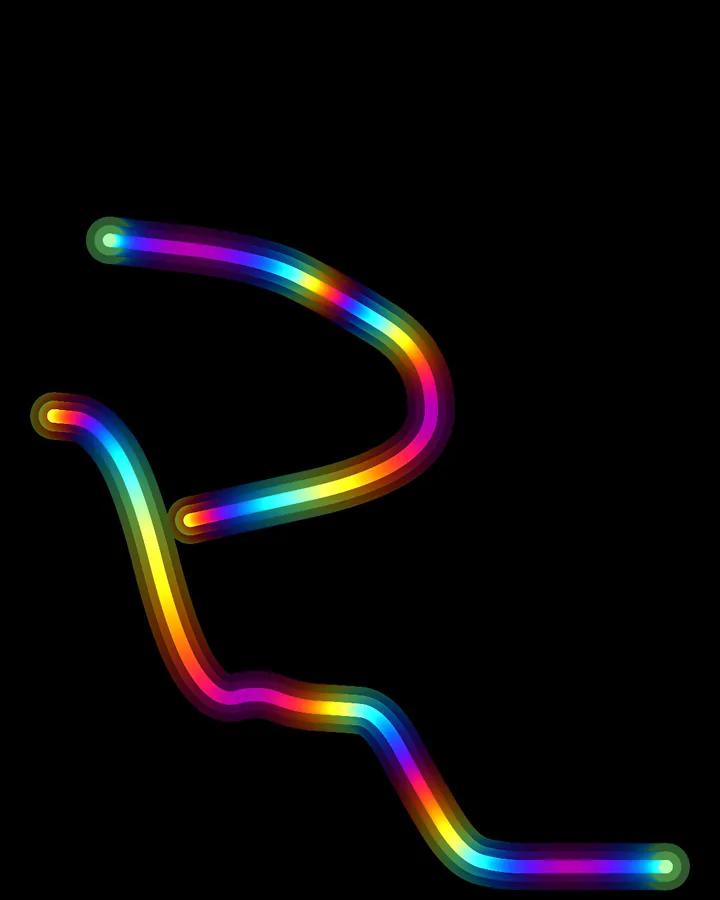
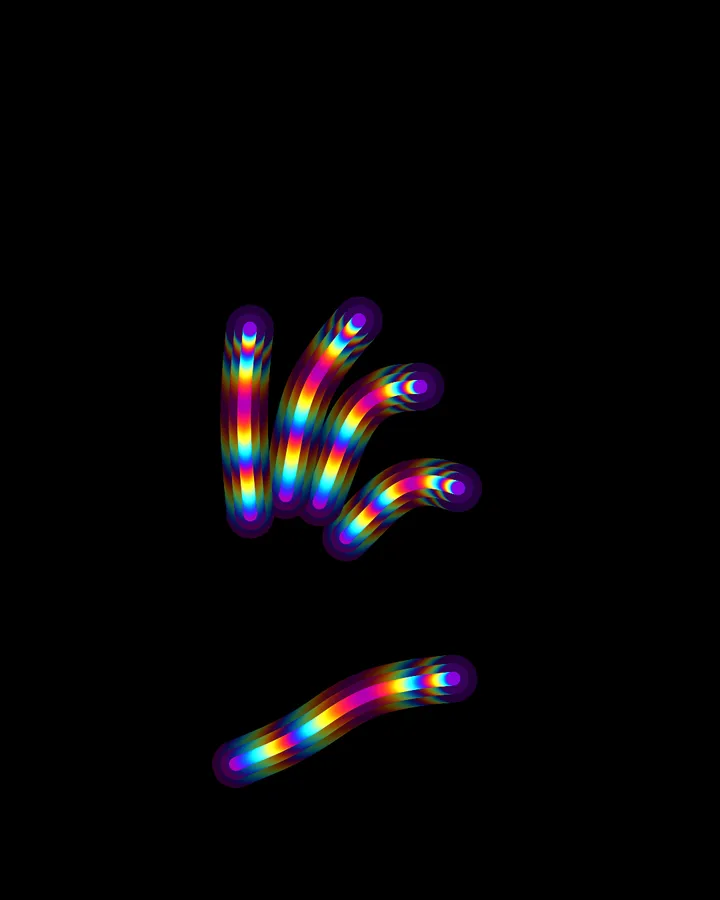
fix(vision): worker INIT message was lost on startup, killing hand/finger detection
The worker only registered its onmessage handler after the dynamic
import of vision-manager.js resolved, but the INIT message is posted
right after the Worker is constructed — and a message dispatched with
no listener attached is silently dropped. The worker then never
initialized, READY never arrived, and the vision init promise hung
forever: camera on, zero detections. With the worker now the default
for the interaction system, this broke hands and fingers on
interaction-test and splines-v1-interactive.

- vision-worker: register a synchronous buffering onmessage at top
  level and replay buffered messages once the manager module is loaded
- mediapipe: 15s worker-init timeout so an unresponsive worker falls
  back to main-thread inference instead of hanging forever
- mediapipe: requestVideoFrameCallback fallback latch — some browsers
  never tick rVFC for hidden (display:none) videos; if the video is
  ready but no tick arrives for 1s, stop gating inference on it and
  rely on time-based throttling

Also folds the rebased per-finger feature into the optimized pipeline:
fingers entry in the flat-collector registry, TTL-guarded hand results
in _eachDetectedFinger, and numHands sized for whichever of the
hands/fingers trackers asks for more.

https://claude.ai/code/session_01Fiidets1zJBdVos64PTAYa

Changed region(s): [[0.0306, 0.2178, 0.9778, 0.9956]]

diff --git a/src/templates/p5/utils/mediapipe/mediapipe.js b/src/templates/p5/utils/mediapipe/mediapipe.js
@@ -11,6 +11,13 @@ let VisionManagerClass = null;
 // Timestamp of the previous completed inference, used for the rate stat.
 let lastFrameDoneTime = 0;
 
+// If the worker doesn't answer INIT within this, fall back to the main thread.
+const WORKER_INIT_TIMEOUT_MS = 15000;
+
+// If requestVideoFrameCallback stops ticking for this long while the video is
+// ready (some browsers never fire it for hidden videos), stop gating on it.
+const FRAME_CALLBACK_FALLBACK_MS = 1000;
+
 const mediapipe = {
   config: {
     useWorker: false,
@@ -70,7 +77,8 @@ const mediapipe = {
 
     lastDetectionTime: 0,
     usingFrameCallback: false,
-    freshFrame: true
+    freshFrame: true,
+    lastFrameCallbackTime: 0
   },
 
   stats: {
@@ -150,10 +158,18 @@ function setupWorker() {
 
     mediapipe.processor.instance = worker;
 
+    // If the worker never answers (script failed to evaluate, message lost…),
+    // reject so init() can fall back to main-thread inference.
+    const initTimeout = setTimeout(
+      () => reject( new Error( "vision worker init timed out" ) ),
+      WORKER_INIT_TIMEOUT_MS
+    );
+
     worker.onerror = ( event ) => {
       mediapipe.stats.lastError = event.message ?? "vision worker error";
       // Recover the frame loop if the worker dies mid-inference.
       mediapipe.processor.busy = false;
+      clearTimeout( initTimeout );
       reject( new Error( mediapipe.stats.lastError ) );
     };
 
@@ -164,8 +180,10 @@ function setupWorker() {
 
       if ( type === "READY" ) {
         mediapipe.processor.ready = true;
+        clearTimeout( initTimeout );
         resolve();
       } else if ( type === "INIT_ERROR" ) {
+        clearTimeout( initTimeout );
         reject( new Error( e.data.message ) );
       } else if ( type === "LIB_RESULT" ) {
         handleResult( e.data.payload );
@@ -450,6 +468,7 @@ function armFrameCallback( videoEl ) {
 
   mediapipe.scheduler.usingFrameCallback = true;
   mediapipe.scheduler.freshFrame = false;
+  mediapipe.scheduler.lastFrameCallbackTime = performance.now();
 
   const onFrame = () => {
     // Stop re-arming once the capture element was replaced or removed.
@@ -458,6 +477,7 @@ function armFrameCallback( videoEl ) {
     }
 
     mediapipe.scheduler.freshFrame = true;
+    mediapipe.scheduler.lastFrameCallbackTime = performance.now();
     videoEl.requestVideoFrameCallback( onFrame );
   };
 
@@ -512,11 +532,6 @@ function sendFrameIfDue() {
     return;
   }
 
-  // Don't re-infer a frame the camera hasn't refreshed yet.
-  if ( scheduler.usingFrameCallback && !scheduler.freshFrame ) {
-    return;
-  }
-
   if ( mediapipe.processor.busy ) {
     // Watchdog: a crashed worker or a dropped message would otherwise freeze
     // detection forever — recover after a generous timeout.
@@ -533,7 +548,23 @@ function sendFrameIfDue() {
   const videoEl = mediapipe.capture.element.elt;
 
   if ( !videoEl || videoEl.readyState < 2 ) {
+    // Anchor the frame-callback fallback latch to when the video gets ready,
+    // so a slow camera-permission prompt can't trip it prematurely.
+    scheduler.lastFrameCallbackTime = now;
+
     return;
+  }
+
+  // Don't re-infer a frame the camera hasn't refreshed yet.
+  if ( scheduler.usingFrameCallback && !scheduler.freshFrame ) {
+    // Some browsers never fire requestVideoFrameCallback for hidden
+    // (display:none) videos. The video is ready but no tick has arrived for
+    // a while → stop gating on it and rely on time-based throttling alone.
+    if ( now - scheduler.lastFrameCallbackTime > FRAME_CALLBACK_FALLBACK_MS ) {
+      scheduler.usingFrameCallback = false;
+    } else {
+      return;
+    }
   }
 
   mediapipe.processor.busy = true;

diff --git a/public/assets/scripts/vision-worker.js b/public/assets/scripts/vision-worker.js
@@ -1,3 +1,12 @@
+// Buffer messages synchronously: INIT can arrive while vision-manager.js is
+// still being fetched, and a message dispatched with no listener attached is
+// silently dropped — which would leave the main thread waiting forever.
+const pendingMessages = [];
+
+self.onmessage = ( event ) => {
+  pendingMessages.push( event );
+};
+
 import( "./vision-manager.js" ).then( ( module ) => {
   const {
     VisionManager
@@ -23,7 +32,7 @@ import( "./vision-manager.js" ).then( ( module ) => {
     );
   } );
 
-  self.onmessage = async( event ) => {
+  const handleMessage = async( event ) => {
     const message = event.data;
 
     if ( message.type === "INIT" ) {
@@ -94,4 +103,9 @@ import( "./vision-manager.js" ).then( ( module ) => {
       self.close();
     }
   };
+
+  self.onmessage = handleMessage;
+
+  // Replay anything that arrived while the manager module was loading.
+  pendingMessages.splice( 0 ).forEach( handleMessage );
 } );

diff --git a/src/templates/p5/sketches/splines/splines-v1-interactive/options.ts b/src/templates/p5/sketches/splines/splines-v1-interactive/options.ts
@@ -7,7 +7,7 @@ export const formValues = {
   mode: {
     type: "live" as "live" | "trail",
     smoothing: 0.35,
-    maxPoints: 90,
+    maxPoints: 25,
     minDistance: 6
   },
 
@@ -21,7 +21,7 @@ export const formValues = {
     ...interactionFormValues,
     vision: {
       ...interactionFormValues.vision,
-      enabled: false,
+      enabled: true,
       hands: {
         ...interactionFormValues.vision.hands,
         landmarks: {
